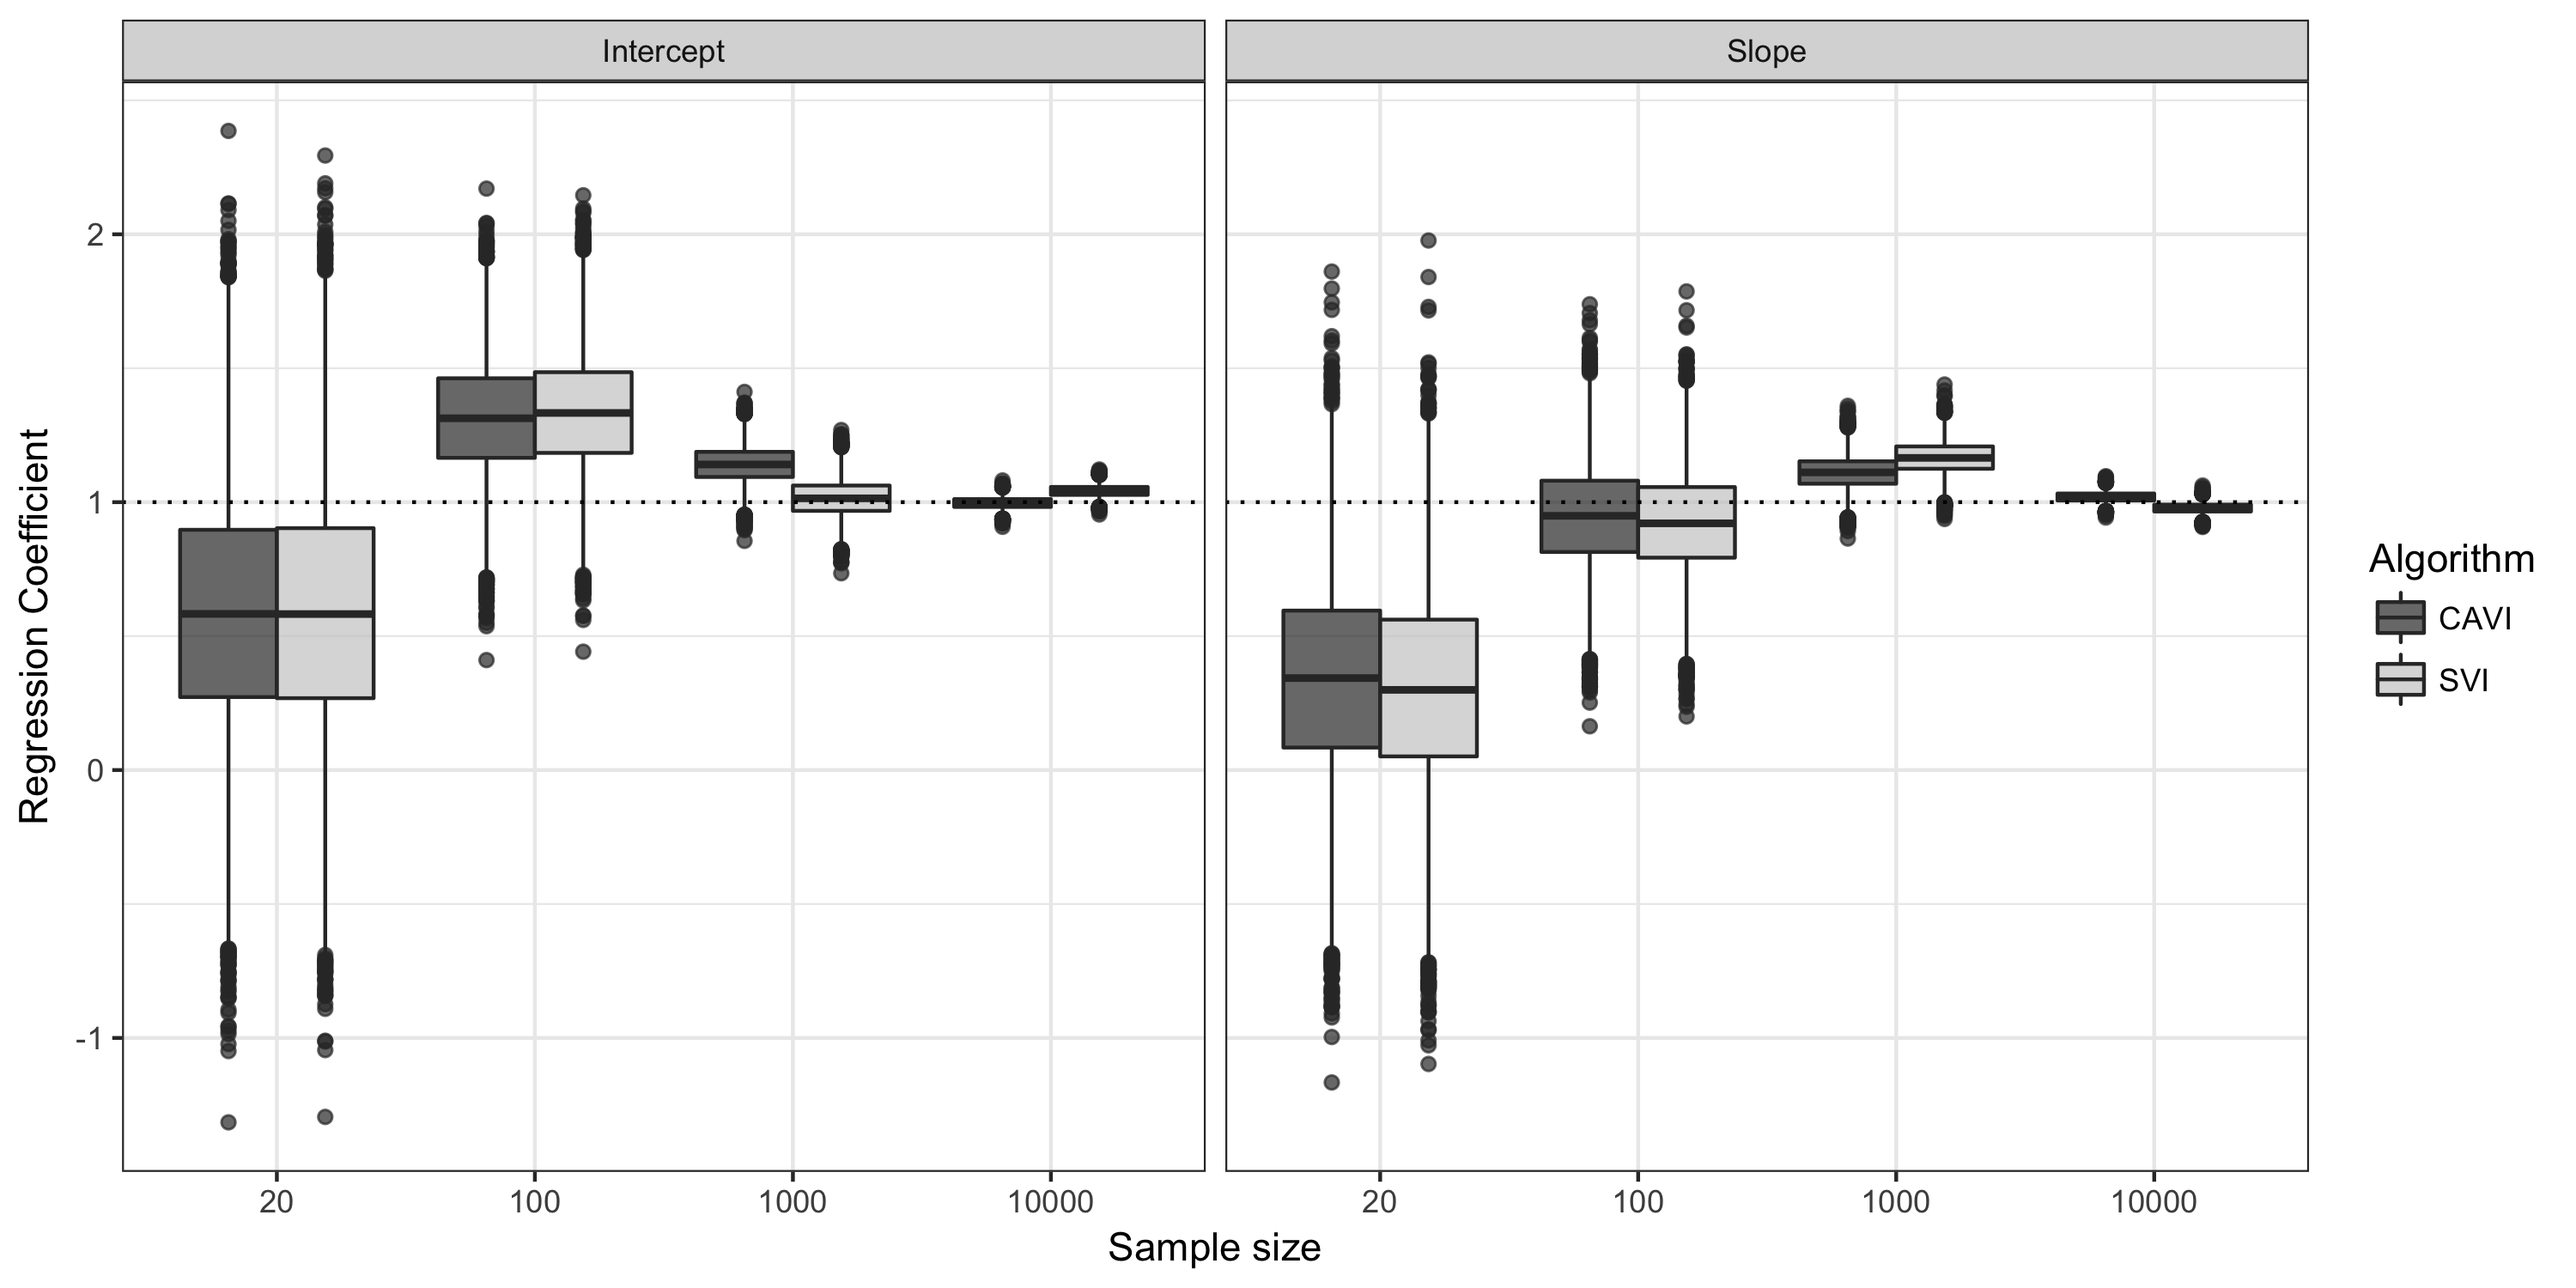
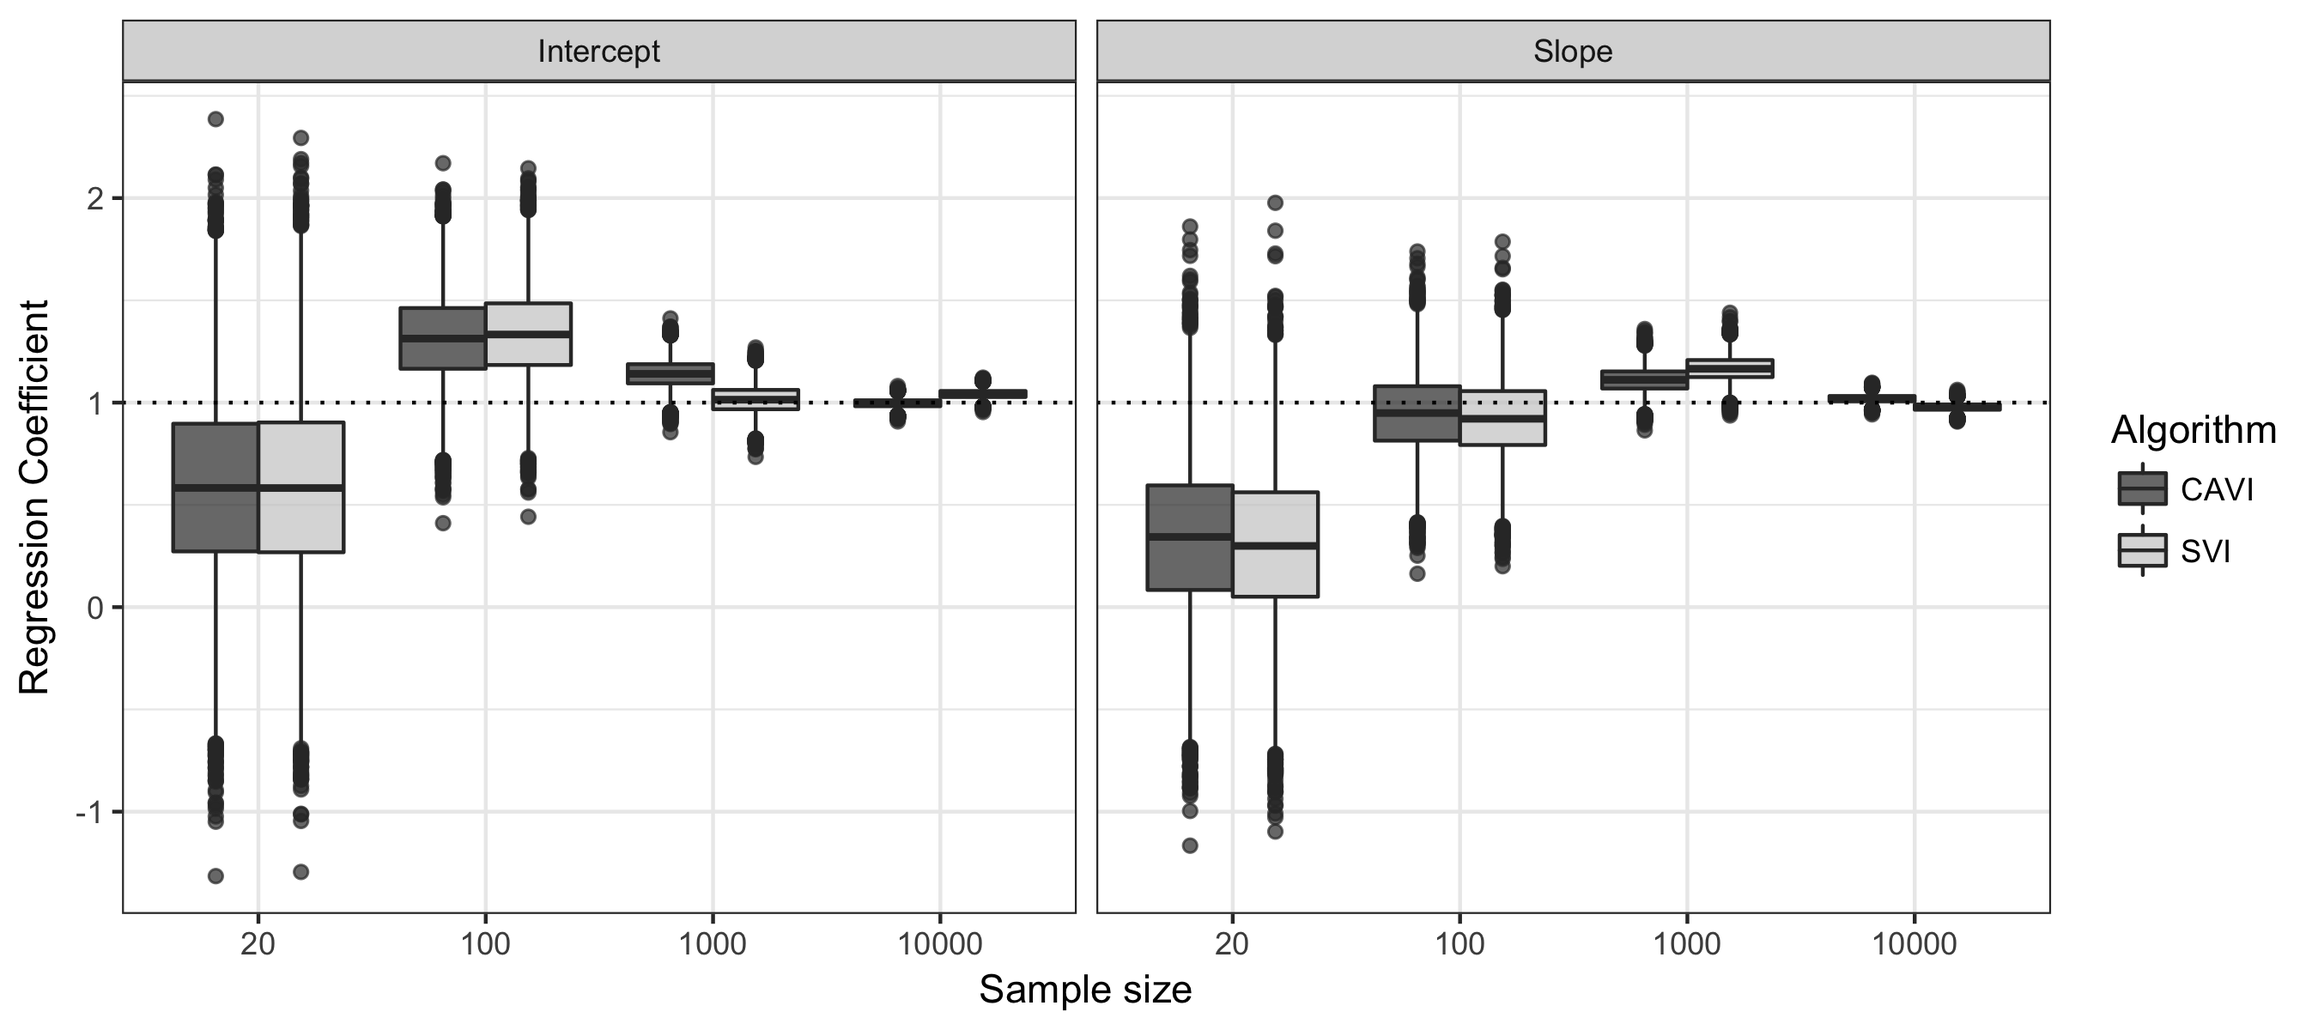
Stuff

diff --git a/vb_logistic_tutorial.md b/vb_logistic_tutorial.md
@@ -59,7 +59,6 @@ Finally, we simulate posterior draws from the CAVI variational distribution from
 set.seed(100)
 beta0_CAVI <- rnorm(10^4, CAVI_output$mu[1], sqrt(CAVI_output$Sigma[1,1]))
 beta1_CAVI <- rnorm(10^4, CAVI_output$mu[2], sqrt(CAVI_output$Sigma[2,2]))
-
 beta0_SVI <- rnorm(10^4, SVI_output$mu[1], sqrt(SVI_output$Sigma[1,1]))
 beta1_SVI <- rnorm(10^4, SVI_output$mu[2], sqrt(SVI_output$Sigma[2,2]))
 
@@ -85,7 +84,6 @@ SVI_output  <- logit_SVI(X = X, y = y,  prior = prior,  iter = iter, tau = tau, 
 set.seed(100)
 beta0_CAVI <- rnorm(10^4, CAVI_output$mu[1], sqrt(CAVI_output$Sigma[1,1]))
 beta1_CAVI <- rnorm(10^4, CAVI_output$mu[2], sqrt(CAVI_output$Sigma[2,2]))
-
 beta0_SVI <- rnorm(10^4, SVI_output$mu[1], sqrt(SVI_output$Sigma[1,1]))
 beta1_SVI <- rnorm(10^4, SVI_output$mu[2], sqrt(SVI_output$Sigma[2,2]))
 
@@ -107,7 +105,6 @@ SVI_output  <- logit_SVI(X = X, y = y,  prior = prior,  iter = iter, tau = tau, 
 set.seed(100)
 beta0_CAVI <- rnorm(10^4, CAVI_output$mu[1], sqrt(CAVI_output$Sigma[1,1]))
 beta1_CAVI <- rnorm(10^4, CAVI_output$mu[2], sqrt(CAVI_output$Sigma[2,2]))
-
 beta0_SVI <- rnorm(10^4, SVI_output$mu[1], sqrt(SVI_output$Sigma[1,1]))
 beta1_SVI <- rnorm(10^4, SVI_output$mu[2], sqrt(SVI_output$Sigma[2,2]))
 
@@ -129,7 +126,6 @@ SVI_output  <- logit_SVI(X = X, y = y,  prior = prior,  iter = iter, tau = tau, 
 set.seed(100)
 beta0_CAVI <- rnorm(10^4, CAVI_output$mu[1], sqrt(CAVI_output$Sigma[1,1]))
 beta1_CAVI <- rnorm(10^4, CAVI_output$mu[2], sqrt(CAVI_output$Sigma[2,2]))
-
 beta0_SVI <- rnorm(10^4, SVI_output$mu[1], sqrt(SVI_output$Sigma[1,1]))
 beta1_SVI <- rnorm(10^4, SVI_output$mu[2], sqrt(SVI_output$Sigma[2,2]))
 
@@ -142,8 +138,8 @@ The following code produce the plot included in the paper
 
 ```r
 ggplot(data=data_plot, aes(x = as.factor(Sample_size), y = Posterior, fill=Algorithm)) + facet_grid(~beta) + geom_boxplot(alpha=0.7) + theme_bw() + scale_fill_grey() + geom_hline(yintercept=1, linetype="dotted") + xlab("Sample size") + ylab("Regression Coefficient")
-ggsave("final_plot.png", width=10,height=5)
-ggsave("final_plot.pdf", width=10,height=5)
+ggsave("final_plot.png", width=9,height=4)
+ggsave("final_plot.pdf", width=9,height=4)
 ```
 
 ![](https://raw.githubusercontent.com/tommasorigon/logisticVB/master/final_plot.png)
